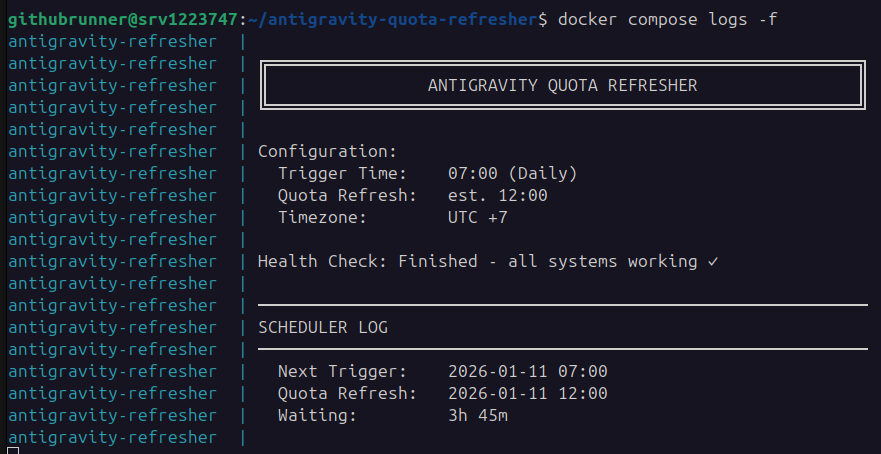
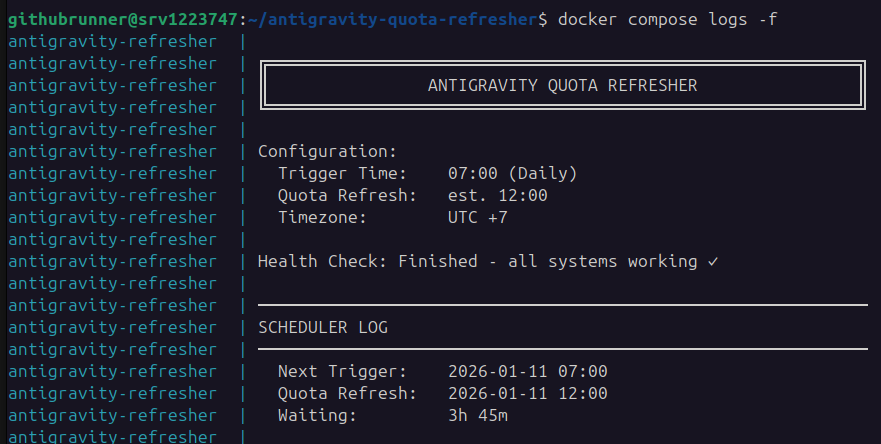
Add trigger execution screenshot, crop images, disable Gantt todayMarker, add Issues section

diff --git a/README.md b/README.md
@@ -19,6 +19,7 @@ gantt
     title Without Refresher
     dateFormat HH:mm
     axisFormat %H:%M
+    todayMarker off
 
     section Quota
     Quota Rolling Window (5h)                :crit, 10:00, 5h
@@ -42,6 +43,7 @@ gantt
     title With Refresher
     dateFormat HH:mm
     axisFormat %H:%M
+    todayMarker off
 
     section Bucket 1
     ⚡ API Trigger Fires                     :milestone, t1, 07:00, 0d
@@ -134,9 +136,15 @@ That's it. The script will:
 docker compose logs -f
 ```
 
-It should be fine, but it is still a good idea to monitor whether the logs are healthy. A good startup looks like this:
+It should be fine, but it is still a good idea to monitor whether the logs are healthy.
+
+A good startup looks like this:
 
 ![Deploy Logs](docs/deploy-logs.png)
+
+A good cron / scheduler trigger looks like this:
+
+![Trigger](docs/trigger-execution.png)
 
 Done! everyday on _[your configured time]_, your Antigravity Quota rolling window should be started.
 
@@ -153,7 +161,13 @@ Done! everyday on _[your configured time]_, your Antigravity Quota rolling windo
 
 ---
 
-## **Credits:**
+## Issues
+
+Found a bug or have a suggestion? [Open an issue](https://github.com/leonidlouis/antigravity-quota-refresher/issues)!
+
+---
+
+## Credits
 
 [wusimpl/AntigravityQuotaWatcher](https://github.com/wusimpl/AntigravityQuotaWatcher) • [shekohex/opencode-google-antigravity-auth](https://github.com/shekohex/opencode-google-antigravity-auth)
 
